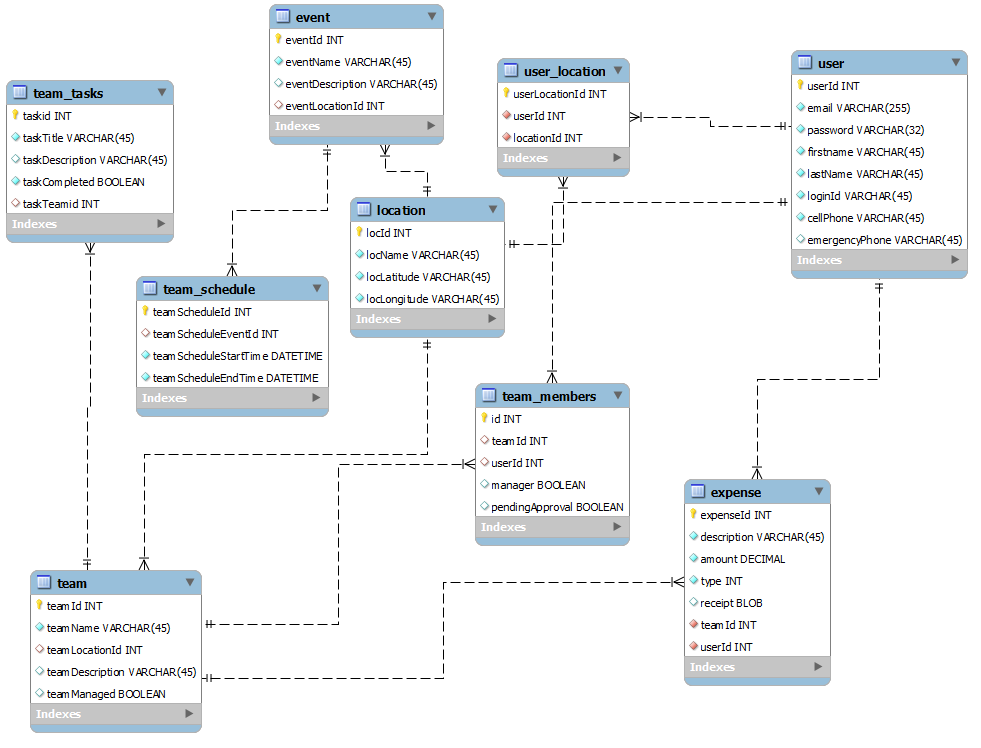
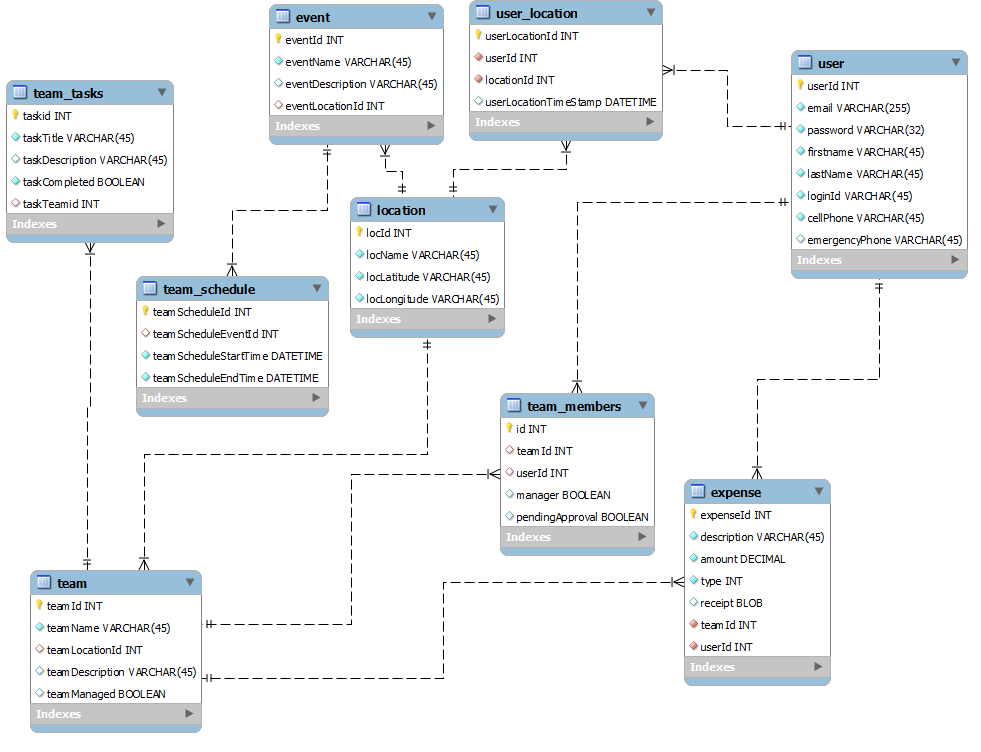
API and database changes
Reformatted the some of the existing php files. Started work on the team
php file and made some formatting changes to database model.

diff --git a/API/api/pub/models/User.php b/API/api/pub/models/User.php
@@ -13,8 +13,7 @@
 		public $lastName;
 		public $loginId;
 		public $cellPhone;
-		public $emergencyPhone;
-		public $location;
+		public $emergencyPhone;		
 		
 		public function __construct()
 		{
@@ -30,14 +29,12 @@
 			$this->lastName 	= "";
 			$this->loginId 		= "";
 			$this->cellPhone 	= "";
-			$this->emergencyPhone 	= "";
-			$this->location 	= -999;
+			$this->emergencyPhone 	= "";			
 		}
 
 		//data functions
 		public function UpdateUser($id)
 		{
-
 			global $db; //finish...
 			$query = sprintf("update user set email='%s', password='%s', firstName='%s', lastName='%s', cellPhone='%s', emergencyPhone='%s', loginId='%s' where userId=%d", 
 			myEsc($this->email), 
@@ -84,44 +81,44 @@
 
                 public function SelectUserFromLoginID($loginId)
                 {
-                        global $db;
-                        if ($loginId)
-                        {
-                                $query = "select * from user where loginId='" . myEsc($loginId) . "'";
-                        }
+					global $db;
+					if ($loginId)
+					{
+							$query = "select * from user where loginId='" . myEsc($loginId) . "'";
+					}
 
-                        $sql = mysql_query($query, $db);
-		                //file_put_contents ('/tmp/phplogtest.txt', $query . "\n", FILE_APPEND | LOCK_EX);
-	
-                        if (mysql_num_rows($sql) > 0)
-                        {
-                                $result = array();
-                                while ($rlt = mysql_fetch_array($sql, MYSQL_ASSOC))
-                                {
-                                        $result[] = $rlt;
-                                }
+					$sql = mysql_query($query, $db);
+					//file_put_contents ('/tmp/phplogtest.txt', $query . "\n", FILE_APPEND | LOCK_EX);
 
-				//convert array to object
-	                        foreach($result[0] as $item=>$value)
-        	                {
-                	                $tUser->$item = $value;
-                       		}
+					if (mysql_num_rows($sql) > 0)
+					{
+						$result = array();
+						while ($rlt = mysql_fetch_array($sql, MYSQL_ASSOC))
+						{
+								$result[] = $rlt;
+						}
 
-                                return $tUser;
-                        }
+						//convert array to object
+						foreach($result[0] as $item=>$value)
+						{
+								$tUser->$item = $value;
+						}
+
+							return $tUser;
+					}
                 }
 
 
 		public function DeleteUser($id)
 		{
-                        global $db;
-                        if ($id)
-                        {
-                                $query = "delete from user where userId=" . myEsc($id);
-                        }
+			global $db;
+			if ($id)
+			{
+					$query = "delete from user where userId=" . myEsc($id);
+			}
 
-                        $sql = mysql_query($query, $db);
-                        return $result;
+			$sql = mysql_query($query, $db);
+			return $result;
 		}
 
 		public function InsertUser()
@@ -129,13 +126,13 @@
 			global $db;
 
 			$query = sprintf("insert into user (email,loginId,password,firstname,lastName,cellPhone,emergencyPhone) values ('%s','%s','%s','%s','%s','%s','%s')",
-                        myEsc($this->email),
-                        myEsc($this->loginId),
-                        myEsc($this->password),
-                        myEsc($this->firstName),
-                        myEsc($this->lastName),
-                        myEsc($this->cellPhone),
-                        myEsc($this->emergencyPhone));
+						myEsc($this->email),
+						myEsc($this->loginId),
+						myEsc($this->password),
+						myEsc($this->firstName),
+						myEsc($this->lastName),
+						myEsc($this->cellPhone),
+						myEsc($this->emergencyPhone));
 
 
 			$id = -999;
@@ -143,7 +140,6 @@
 			$id = mysql_insert_id();
 
 			return $id;
-
 		}
 	}
 ?>

diff --git a/API/api/pub/controllers/UserController.php b/API/api/pub/controllers/UserController.php
@@ -40,23 +40,22 @@
 			return $this->SelectUserFromID($userId);
 		}
 
-                public function GetUserFromLoginID($loginId)
-                {       
-                        $arr = $this->SelectUserFromLoginID($loginId);
-			return $arr;	
-                }
+        public function GetUserFromLoginID($loginId)
+        {       
+            $arr = $this->SelectUserFromLoginID($loginId);
+            return $arr;	
+        }
 
 		private function arrayToObject($array)
 		{
 			$tUser = new User;
-                        //convertArray to User Object
-                        foreach($usrArray as $item=>$value)
-                        {
-                                $tUser->$item = $value;
-                        }
+            //convertArray to User Object
+            foreach($usrArray as $item=>$value)
+            {
+                    $tUser->$item = $value;
+            }
 			
 			return $tUser;
 		}
-
 	}
 ?>

diff --git a/API/api/pub/models/Team.php b/API/api/pub/models/Team.php
@@ -1,0 +1,35 @@
+<?php
+
+    include_once('/home/awayteam/api/pub/apiconfig.php');
+	
+    class Team
+    {
+        //class attributes
+        public $teamId;
+        public $teamName;
+        public $teamLocationId;
+        public $teamDescription;
+        public $teamManaged;
+        
+        public function_construct()
+        {
+            $this->initialize();
+        }
+        
+        public function initialize()
+        {
+            $this->teamId = -999;
+            $this->teamName = "";
+            $this->teamLocationId = "";
+            $this->teamDescription = "";
+            $this->teamManaged = False;            
+        }
+        
+        //data functions
+        public function UpdateTeam($id)
+        {
+            global $db;
+            $query = sprintf("update team set 
+        }
+        
+	
